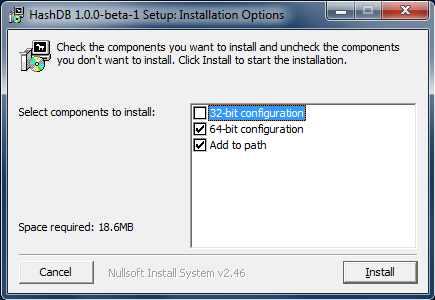
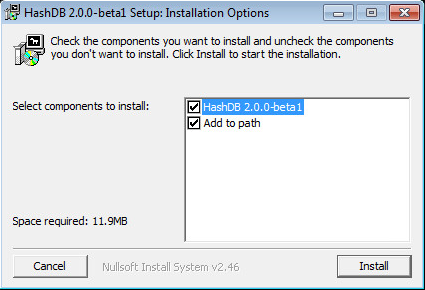
update documentation

Changed region(s): [[0.0, 0.0, 1.0, 1.0]]

diff --git a/doc/hashdb_um/hashdbUsersManual.tex b/doc/hashdb_um/hashdbUsersManual.tex
@@ -127,8 +127,8 @@ hashdb changes (insert):
 \hash is a tool that can be used to find data in raw media using cryptographic hashes calculated from blocks of data. It is a useful forensic investigation tool for tasks such as malware detection, child exploitation detection or corporate espionage investigations. The tool provides several capabilities that include:
 \begin{itemize}
 \item Creating hash databases of MD5 block hashes, as opposed to file hashes.
-\item Importing hash values from Digital Forensic XML (DFXML) files created by other programs such as \textbf{md5deep} or \textbf{fiwalk}.
-\item Scanning the hash database for matching hash values using either the local or remote system. 
+\item Importing block hash values from Digital Forensic XML (DFXML) files created by other programs such as \textbf{md5deep} or \textbf{fiwalk}.
+\item Scanning the hash database for matching hash values.
 \item Providing the source information for hash values. 
 \end{itemize}
 
@@ -196,7 +196,7 @@ The \bulk \hash scanner can import hashes directly into a new hash database,
 see \textbf{\autoref{ImportingAndScanning}} for importing using the \bulk \hash scanner.
 Also, third party tools can be created for importing hashes
 directly into a hash database by interfacing with the \hash library API,
-see \textbf{autoref{usingSection}}.
+see \textbf{\autoref{usingSection}}.
 
 \subsubsection{Creating a DFXML file using \textbf{md5deep}}
 
@@ -285,22 +285,17 @@ The above command specifies to export hashes and their source information from h
 \subsection{Contents of a Hash Database}
 Each \hash database is contained in a directory called \textit{$<$databasename$>$.hdb} and contains a number of files. These files are:
 \begin{verbatim}
-Bloom_filter_1
+bloom_filter
+history.xml
 lmdb_hash_store/data.mdb
 lmdb_hash_store/lock.mdb
-history.xml
+lmdb_name_store/data.mdb
+lmdb_name_store/lock.mdb
+lmdb_source_store/data.mdb
+lmdb_source_store/lock.mdb
 log.xml
+_old_history.xml
 settings.xml
-source_filename_store.dat
-source_filename_store.idx1
-source_filename_store.idx2
-source_lookup_store.dat
-source_lookup_store.idx1
-source_lookup_store.idx2
-source_metadata_store
-source_repository_name_store.dat
-source_repository_name_store.idx1
-source_repository_name_store.idx2
 \end{verbatim}
 
 These files include XML files containing configuration settings and logs, a Bloom filter file used for improving the speed of hash lookups, binary files containing stored hashes from multiple sources and binary files that allow lookup of hash source names. Of these files, the history, settings, and log files may be of interest to the user:
@@ -418,7 +413,7 @@ You should close all Command windows before running the installation executable.
 	\label{fig:windowsWarning}
 \end{figure}
 
-When the installer file is executed, the installation will begin and show a dialog like the one shown in Figure \ref{fig:windowsInstaller}.  Users should select the default configuration, which will be the 64-bit configuration for 64-bit Windows systems, or the 32-bit configuration for 32-bit Windows systems. Click on ``Install' and the installer will install \hash on your system and then notify you when it is complete. \hash is now installed on your system can be run from the command line.\\
+When the installer file is executed, the installation will begin and show a dialog like the one shown in Figure \ref{fig:windowsInstaller}.  Users should select the 64-bit configuration to install \hash and select \verb+Add to path+ to add hashdb to \verb+PATH+. \hash is now installed on your system can be run from the command line.\\
 
 \begin{figure}
 	\center
@@ -429,17 +424,19 @@ When the installer file is executed, the installation will begin and show a dial
 
 \subsection{Installing Other Related Tools}
 
-\textbf{Download and Install \bulk}\\
+\subsubsection{\bulk}
 The \bulk \hash scanner provides the capability to import block hashes into a new hash database and to scan for hashes against an existing hash database.
 This scanner is included in \bulk version 1.4.5 or later. For detailed instructions on downloading and installing \bulk, please refer to the Users Manual found at \url{http://digitalcorpora.org/downloads/bulk_extractor/BEUsersManual.pdf}. Note: \hash must be installed first for \bulk to build properly with \hash. \bulk will automatically install the \textit{hashdb} scanner but only if the \hash library has been installed. Otherwise, \bulk will build without the \textit{hashdb} scanner. To check that the \textit{hashdb} scanner is enabled, observe that is enabled in the output of running \texttt{./configure} or type {bulk\_extractor -h} and look for \textit{hashdb} setting options.\\
 
-\textbf{Download and Install \mdd}\\
+\subsubsection{\mdd}
+The \mdd tool creates block hashes from files and directories that \hash can import.
 \mdd is available at
 \url{https://github.com/jessek/hashdeep/releases/tag/release-4.4}.
 Additional platform-specific installation structions are provided at
 \url{https://github.com/simsong/hashdb/wiki/Installing-md5deep}.\\
 
-\textbf{Download and Install \fiwalk}\\
+\subsubsection{\fiwalk}
+The \fiwalk tool creates block hashes from files and directories in images that \hash can import.
 Please see \url{http://www.forensicswiki.org/wiki/Fiwalk}.
 \textbf{fiwalk} is part of The Sleuth Kit\textregistered\xspace (TSK),
 available from \url{https://github.com/sleuthkit/sleuthkit}. \\
@@ -623,27 +620,6 @@ hashdb changes (insert):
 \end{Verbatim}
 \endgroup
 The database \texttt{\textbf{mock\_video.hdb}} now holds 2595 hash values.
-If curious, you may navigate into the directory \texttt{mock\_video.hdb} to observe its set of database files. The following lists the contents:
-\begingroup
-\footnotesize
-\begin{Verbatim}[fontfamily=courier]
- 4097 Mar  9 21:52 Bloom_filter_1
-<DIR> Mar  9 21:56 lmdb_hash_store
- 3788 Mar  9 21:52 history.xml
- 3573 Mar  9 21:56 log.xml
- 3105 Mar  9 21:52 settings.xml
-   47 Mar  9 22:21 source_filename_store.dat
- 8192 Mar  9 21:56 source_filename_store.idx1
- 8192 Mar  9 21:56 source_filename_store.idx2
-   25 Mar  9 22:21 source_lookup_store.dat
- 8192 Mar  9 21:56 source_lookup_store.idx1
- 8192 Mar  9 21:56 source_lookup_store.idx2
- 8192 Mar  9 21:56 source_metadata_store
-   37 Mar  9 22:21 source_repository_name_store.dat
- 8192 Mar  9 21:56 source_repository_name_store.idx1
- 8192 Mar  9 21:56 source_repository_name_store.idx2
-\end{Verbatim}
-\endgroup
 
 The file \texttt{log.xml} shows that a set of hash blocks have just been inserted. Listing \ref{logexcerpt} shows the excerpt of the log file that tracks this statistic.
 \lstset{style=customfile}
@@ -699,7 +675,7 @@ Destination databases are created if they do not exist yet.
 
 \subsubsection{Tracking Changes in Hash Databases}
 Statistics about hash database changes are reported on the console and to the log file and history file inside the hash database.
-These statistics show the number of hashes inserted or removed as a result of a command, and also show the number of hashes not inserted or not removed because specific conditions were not met.
+These statistics show the number of hashes inserted into a database as a result of a command, and also show the number of hashes not removed because specific conditions were not met.
 These statistics are shown in Table \ref{tab:changeStatistics}.
 \begin{table}[!ht]
 
@@ -722,15 +698,16 @@ a 512 byte boundary (80 mod 512 $\ne$ 0).\\
 \verb+hashes_not_inserted_+ \verb+duplicate_element+ & Number of hashes not inserted because they are duplicate elements. The user attempts to import a hash where the hash value, repository name, filename, and its file offset
 are all the same.\\
 \hline
-\verb+hashes_removed+ & Number of hashes removed.\\
-\hline
-\verb+hashes_not_removed_+ \verb+invalid_byte_alignment+ &  Number of hashes not removed because the file offset was not byte aligned.\\
-\hline
-\verb+hashes_not_removed_+ \verb+no_hash+ &  Number of hashes not removed because the hash blocks requested for removal did not exist in the database.\\
-\hline
-\verb+hashes_not_removed_+ \verb+no_element+ &  Number of hashes not removed because the hashes, specifically identified by 
-hash value, repository name, filename, and its file offset do not exist in the database, indicating a possible mistake in database management.\\
-\hline
+% note: manipulation commands do not remove hashes, they copy them.
+%\verb+hashes_removed+ & Number of hashes removed.\\
+%\hline
+%\verb+hashes_not_removed_+ \verb+invalid_byte_alignment+ &  Number of hashes not removed because the file offset was not byte aligned.\\
+%\hline
+%\verb+hashes_not_removed_+ \verb+no_hash+ &  Number of hashes not removed because the hash blocks requested for removal did not exist in the database.\\
+%\hline
+%\verb+hashes_not_removed_+ \verb+no_element+ &  Number of hashes not removed because the hashes, specifically identified by 
+%hash value, repository name, filename, and its file offset do not exist in the database, indicating a possible mistake in database management.\\
+%\hline
 \end{tabular}
 \end{table}
 
@@ -839,8 +816,7 @@ o.mp4","filesize":10630146,"hashdigest":"a003483521c181d26e66dc09740e939d"
 \end{lstlisting}
 
 Users may be put off by the quantity of matches incurred by low-entropy data in their databases such as blocks of zeros or metadata header blocks from files that are otherwise unique. Database manipulation commands,
-\textbf{\autoref{DatabaseManipulation}}
-, can mitigate this, for example:
+\textbf{\autoref{DatabaseManipulation}}, can mitigate this, for example:
 \begin{itemize}
 \item Use the ``subtract'' command to remove known whitelist data created from sources such as ``brand new'' operating system images and the NSRL.
 \item Alternatively, use the ``deduplicate'' command to copy all hash values that have been imported exactly once.
@@ -1053,7 +1029,7 @@ followed by the filename of the DFXML file, including its full path.
 \end{itemize}
 
 \subsubsection{Querying a Remote Hash Database}
-In the future, separate \hdb Server and Cleint tools may be provided so that clients may scan a remote hash database.  This capability is currently unavailable and has been removed from \hdb and the \bulk \hdb scanner.
+In the future, separate \hdb Server and Cleint tools may be provided so that clients may scan a remote hash database.  This capability is currently unavailable.
 
 
 % \hash also provides the capability to set up a remote socket to ``scan'' an existing database. Users can set up a database on the socket and then access the ``scan'' command via that socket. To set up the scan service, users need to provide the name of the hash database and the TCP socket that will be available for clients.
@@ -1144,28 +1120,35 @@ Note that the DFXML that \hash exports is compatible but different from the DFXM
 \item The first offset is 6938624, not 0,
 because the output is sorted by hash value. 
 \item There is a \texttt{fileobject} tag wrapping every individual hash.
-\item Every entry includes a \texttt{repository\_name} tag.
+\item Every \texttt{fileobject} tag includes a \texttt{repository\_name} tag.
+\item Every \texttt{fileobject} tag includes the source file size and source file hashdigest.
 \end{enumerate}
 
 \lstset{style=customfile}
 \begin{lstlisting}[float, caption=Excerpt of a DFXML exported by \hash, label=dfxmlHashExport]
   <fileobject>
-    <repository_name>mock_video_repository</repository_name>
-    <filename>/home/bdallen/demo/mock_video.mp4</filename>
+    <repository_name>repository_mock_video_repository.hdb/</repository_name>
+    <filename>/home/bdallen/demo/demo_video.mp4</filename>
+    <filesize>10630146</filesize>
+    <hashdigest type='MD5'>a003483521c181d26e66dc09740e939d</hashdigest>
     <byte_run file_offset='6938624' len='4096'>
       <hashdigest type='MD5'>0016aa775765eb7929ec06dea25b6f0e</hashdigest>
     </byte_run>
   </fileobject>
   <fileobject>
-    <repository_name>mock_video_repository</repository_name>
-    <filename>/home/bdallen/demo/mock_video.mp4</filename>
+    <repository_name>repository_mock_video_repository.hdb/</repository_name>
+    <filename>/home/bdallen/demo/demo_video.mp4</filename>
+    <filesize>10630146</filesize>
+    <hashdigest type='MD5'>a003483521c181d26e66dc09740e939d</hashdigest>
     <byte_run file_offset='3837952' len='4096'>
       <hashdigest type='MD5'>00183a37c80b3ee02cb4bdd3e7d7e9d2</hashdigest>
     </byte_run>
-  </fileobject>\
+  </fileobject>
   <fileobject>
-    <repository_name>mock_video_repository</repository_name>
-    <filename>/home/bdallen/demo/mock_video.mp4</filename>
+    <repository_name>repository_mock_video_repository.hdb/</repository_name>
+    <filename>/home/bdallen/demo/demo_video.mp4</filename>
+    <filesize>10630146</filesize>
+    <hashdigest type='MD5'>a003483521c181d26e66dc09740e939d</hashdigest>
     <byte_run file_offset='5652480' len='4096'>
       <hashdigest type='MD5'>00513c9484ebc957eb928adf30504bc9</hashdigest>
     </byte_run>
